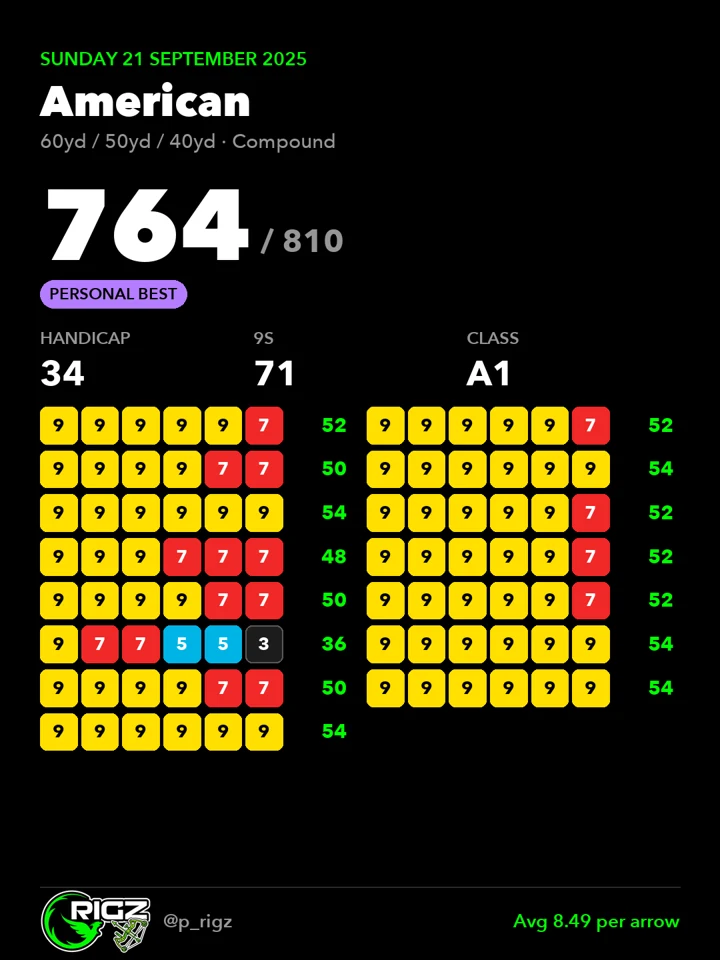
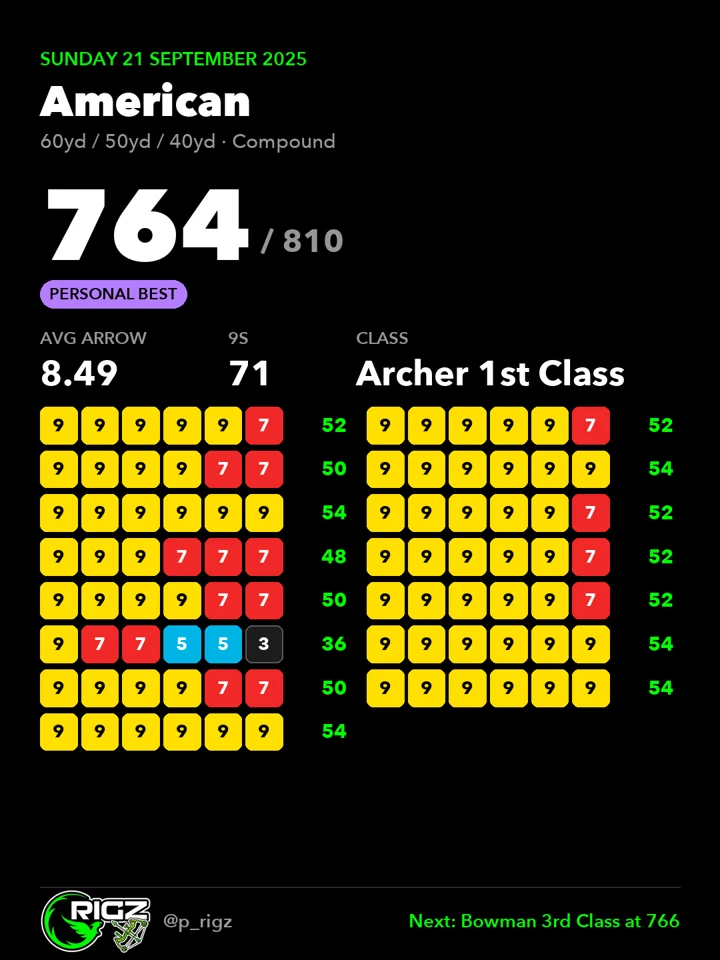
Arrowz page: refresh card images (average arrow, full class names)
- Round, story, American, PB and handicap cards remade with average arrow in
  place of handicap and full class names; link preview remade to match
- Image descriptions updated to the same wording

diff --git a/arrowz/index.html b/arrowz/index.html
@@ -40,7 +40,7 @@
       <a class="btn solid" href="#plot">See the grouping</a><a class="btn ghost" href="https://www.instagram.com/p_rigz/">Follow @p_rigz</a>
     </div>
     <div class="phone">
-      <img src="../img/arrowz-story.webp" alt="Story card for a Portsmouth round: 553 out of 600, handicap 32, 16 tens, class I-B3, with 55 plotted arrows on a target face" width="540" height="960" fetchpriority="high">
+      <img src="../img/arrowz-story.webp" alt="Story card for a Portsmouth round: 553 out of 600, average arrow 9.22, 16 tens, Indoor Bowman 3rd Class, with 55 plotted arrows on a target face" width="540" height="960" fetchpriority="high">
     </div>
   </div>
 </section>
@@ -93,7 +93,7 @@
     <h2>Every round, a card</h2>
     <p class="lead">Plotted rounds show the arrows on the face. Older rounds show every end as coloured scores.</p>
     <div class="gallery">
-      <figure><img src="../img/arrowz-round.webp" alt="Round card: Portsmouth, 553 out of 600, handicap 32, with plotted arrows on one big spot" width="720" height="960" loading="lazy"><figcaption><b>Round:</b> plotted arrows and group</figcaption></figure>
+      <figure><img src="../img/arrowz-round.webp" alt="Round card: Portsmouth, 553 out of 600, average arrow 9.22, Indoor Bowman 3rd Class, with plotted arrows on one big spot and the next class to aim for" width="720" height="960" loading="lazy"><figcaption><b>Round:</b> plotted arrows and group</figcaption></figure>
       <figure><img src="../img/arrowz-ends.webp" alt="Round card: American, 764 out of 810, personal best, every end shown as coloured score chips" width="720" height="960" loading="lazy"><figcaption><b>Round:</b> every end, coloured by ring</figcaption></figure>
       <figure><img src="../img/arrowz-handicap.webp" alt="Handicap card: latest 32, best 30, down 4 since October 2025, with a chart" width="720" height="960" loading="lazy"><figcaption><b>Handicap:</b> lower is better</figcaption></figure>
     </div>
